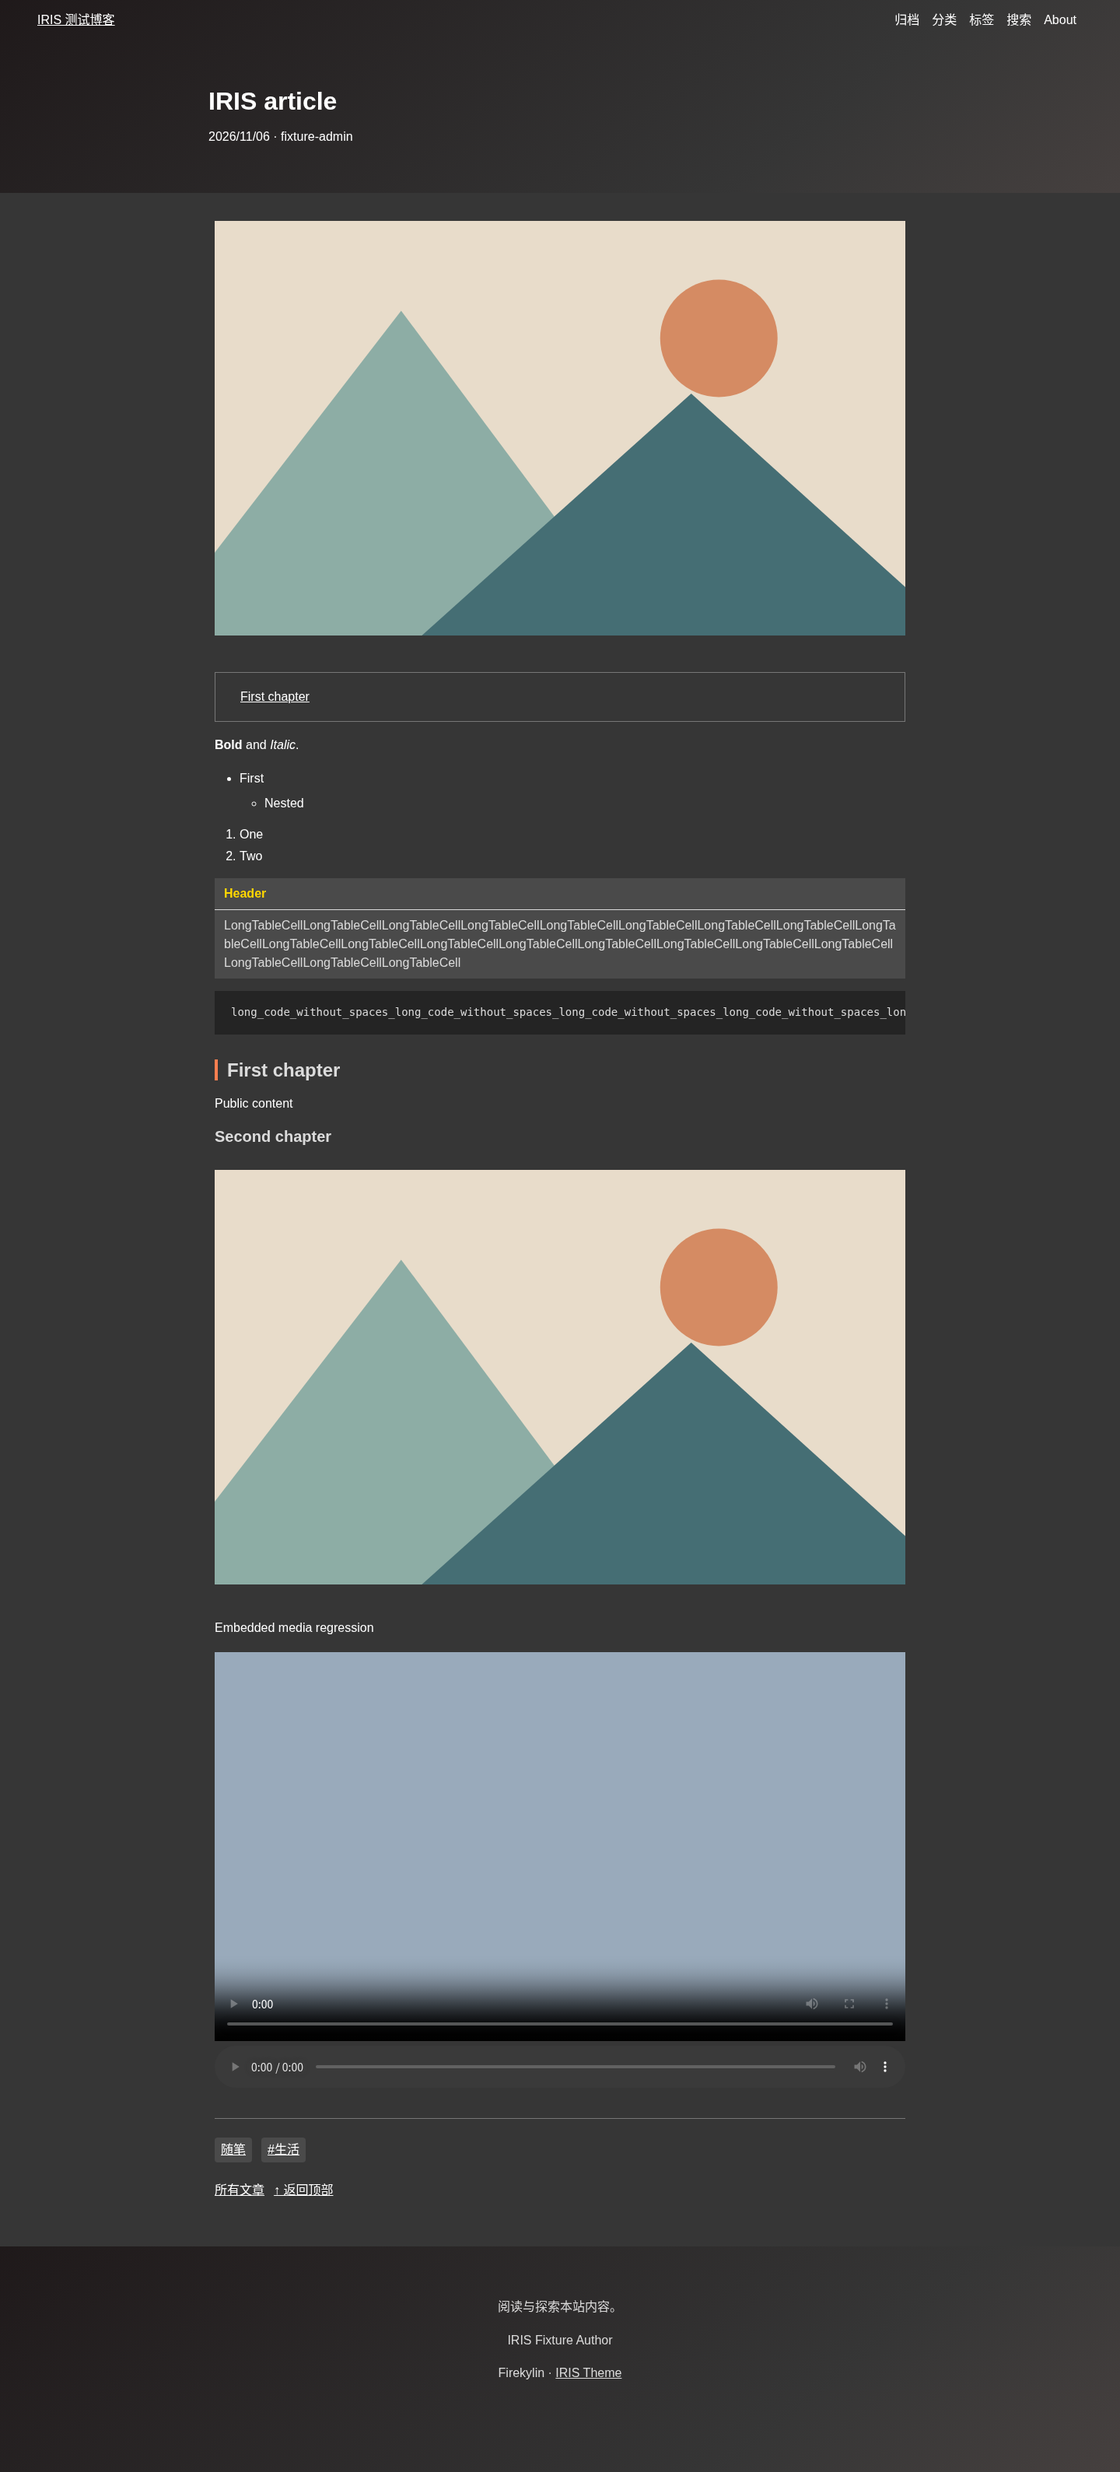
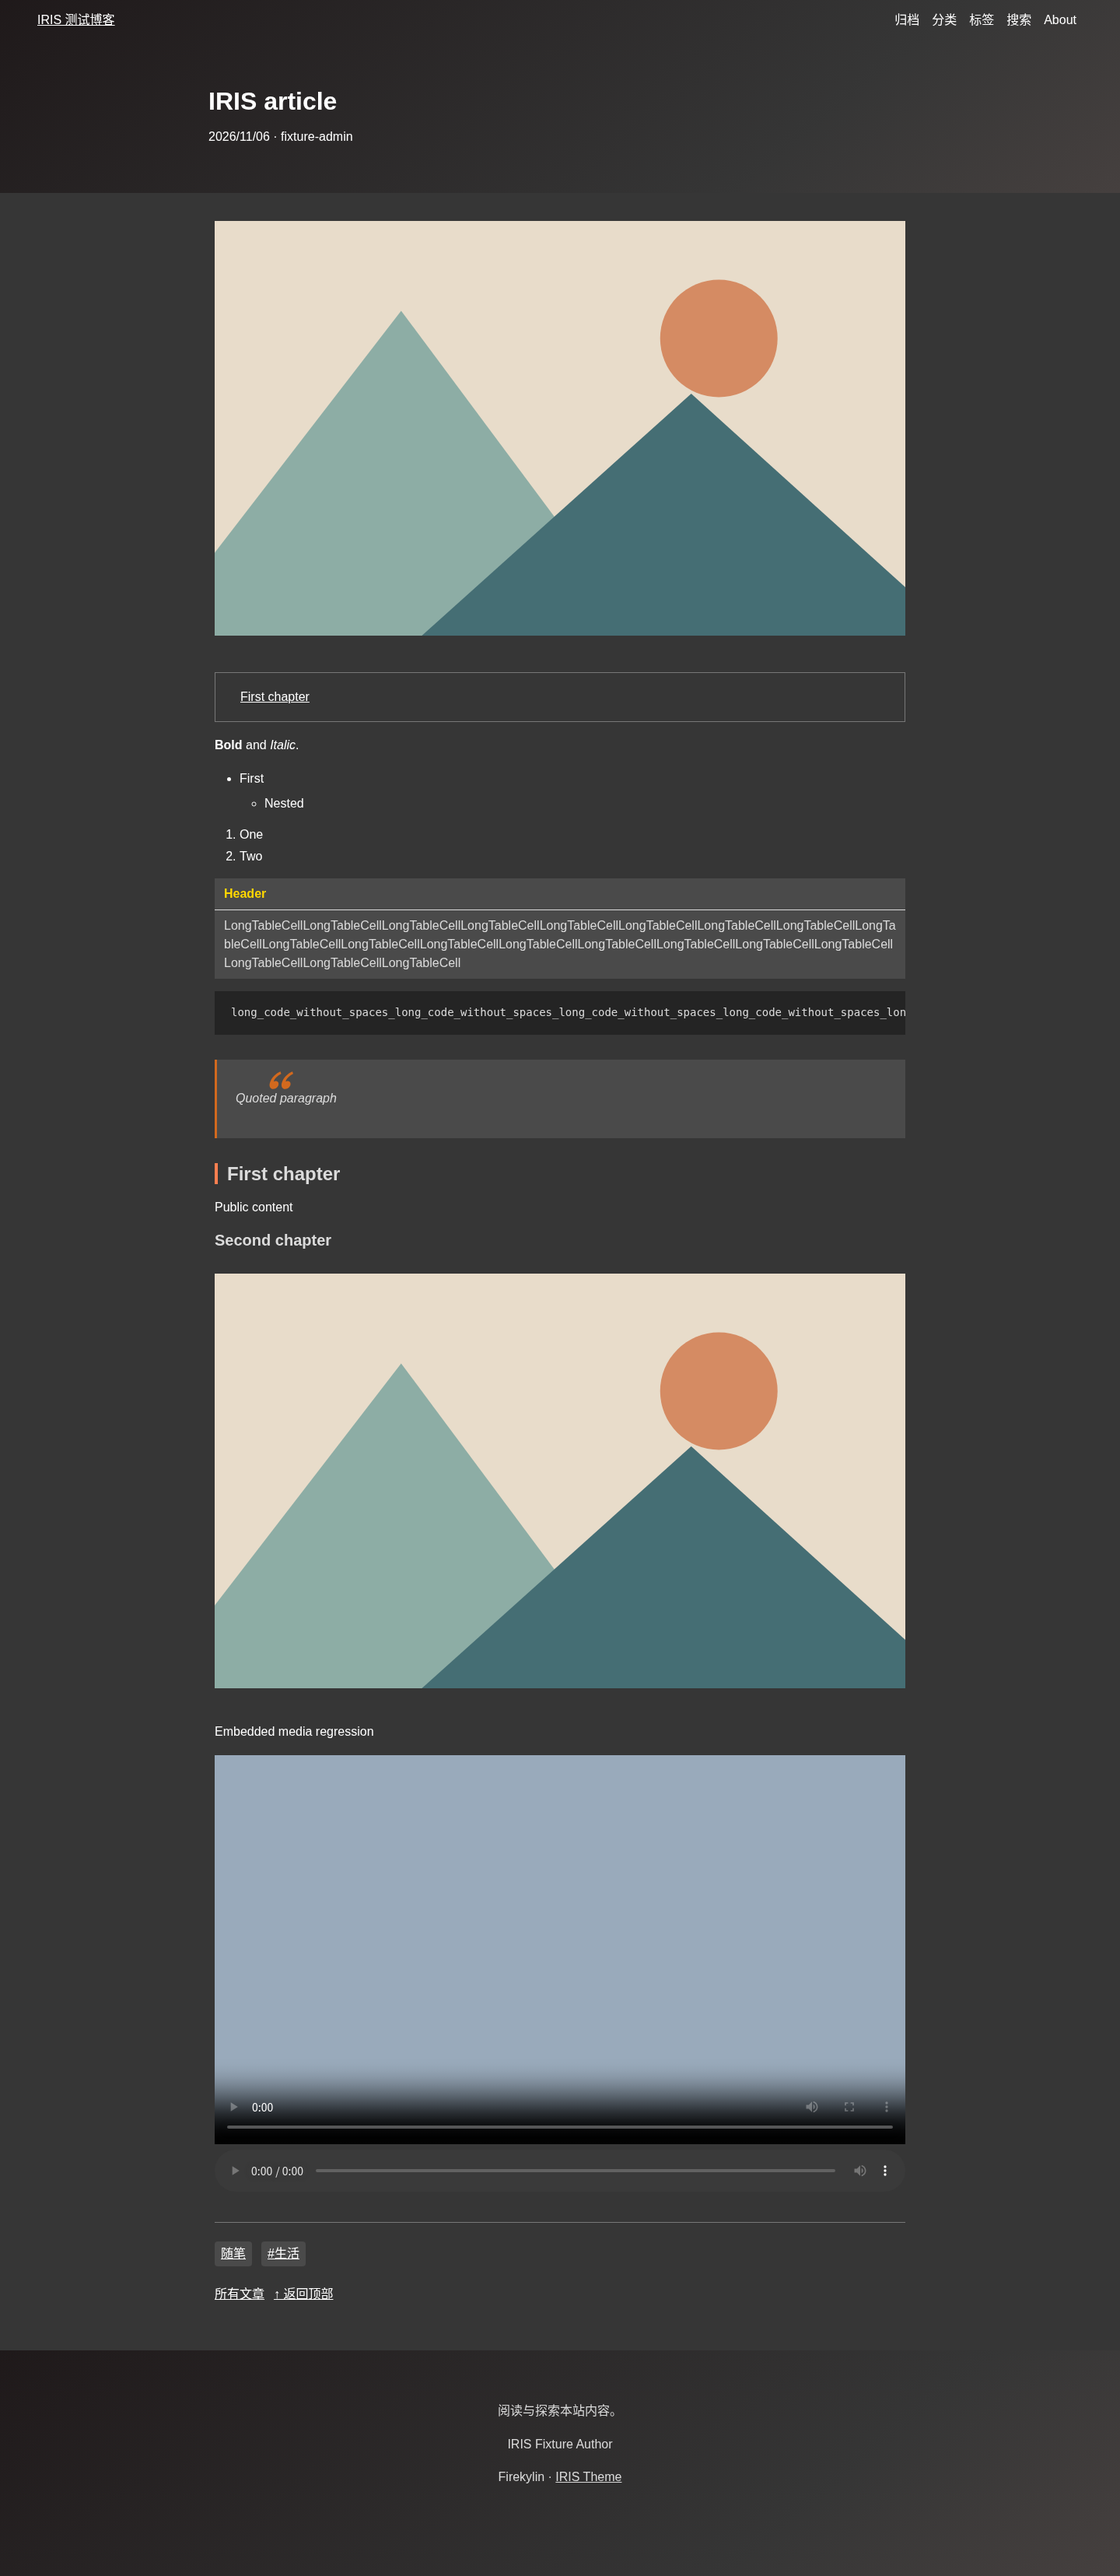
fix(iris): preserve dark blockquote contrast in native content

diff --git a/packages/hugo-theme-iris/res/css/theme.css b/packages/hugo-theme-iris/res/css/theme.css
@@ -11,3 +11,6 @@ body{overflow-wrap:anywhere}.skip{position:absolute;top:-100px}.skip:focus{top:0
 
 /* Native table markup must override Bulma content th foreground. */
 .prose.content table th{color:gold}
+
+/* Keep the original quotation palette inside Bulma content. */
+.prose.content blockquote{background:hsl(0,0%,29%);border-left:.2rem solid chocolate}
